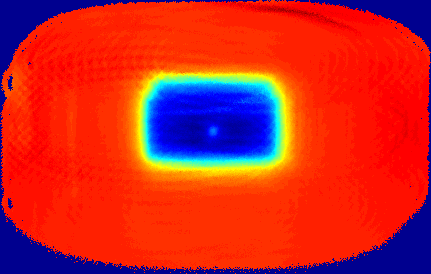
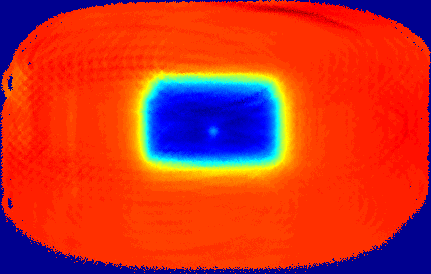
Correct temperatures for dime maps

diff --git a/drawings/ch8-dime-map.tex b/drawings/ch8-dime-map.tex
@@ -31,8 +31,13 @@
     width=3.0571in,
     xlabel={Horizontal Offset (\si{\cm})},
     ylabel={Vertical Offset (\si{\cm})},
+    colorbar horizontal,
+    colorbar style={
+      axis equal=false,
+      xlabel={Temperature Offest (K)},
+    }
     ]
-  \addplot graphics [xmin=-4.410000e+01,xmax=4.210000e+01,ymin=-2.830000e+01,ymax=2.650000e+01] {../images/ch8-dime-map-full.png} ;
+  \addplot[point meta min=-1.884442e+02, point meta max=4.033852e+01] graphics [xmin=-4.410000e+01,xmax=4.210000e+01,ymin=-2.830000e+01,ymax=2.650000e+01] {../images/ch8-dime-map-full.png} ;
   \draw[white,thick] (axis cs:-4.600000e+00,-3.000000e+00) rectangle (axis cs:1.600000e+00,3.200000e+00) ;
 \end{axis}
 \end{tikzpicture}
@@ -45,9 +50,14 @@
     ytick={-3,-2,...,3},
     xlabel={Horizontal Offset (\si{\cm})},
     ylabel={Vertical Offset (\si{\cm})},
+    colorbar horizontal,
+    colorbar style={
+      axis equal=false,
+      xlabel={Temperature Offset (K)},
+    }
     ]
-  \addplot graphics [xmin=-4.700000e+00,xmax=1.700000e+00,ymin=-3.100000e+00,ymax=3.300000e+00] {../images/ch8-dime-map-detail.png} ;
-  \draw[black,thick] (axis cs:-1.424177e+00,2.456295e-01) ellipse [rotate=-6.379057e+00, x radius=9.165774e-01, y radius=1.061354e+00] ;
+  \addplot[point meta min=-1.807045e+02, point meta max=-1.278769e+02] graphics [xmin=-4.700000e+00,xmax=1.700000e+00,ymin=-3.100000e+00,ymax=3.300000e+00] {../images/ch8-dime-map-detail.png} ;
+  \draw[black,thick] (axis cs:-1.422605e+00,1.910573e-01) ellipse [rotate=1.726997e+00, x radius=8.839859e-01, y radius=1.073001e+00] ;
 \end{axis}
 \end{tikzpicture}
 
